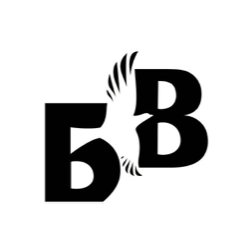
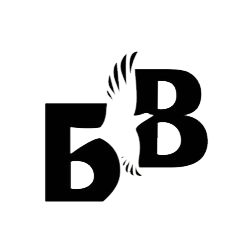
1.1.4 Замена иконки

diff --git a/pages/Video.vue b/pages/Video.vue
@@ -1,76 +1,76 @@
 <template>
-  <v-app style="margin-top: 50px">
+  <div>
     <!--    Меню-->
-    <template>
+  <template>
       <v-tabs
-        background-color="indigo"
-        dark
-        fixed-tabs
+      background-color="indigo"
+      dark
+      fixed-tabs
+    >
+      <v-tab
+        @click="PlaylistIdAll"
       >
-        <v-tab
-          @click="PlaylistIdAll"
-        >
-          Все
-        </v-tab>
-        <v-tab
-          @click="PlaylistIdSermons"
-        >
-          Проповіді
-        </v-tab>
-        <v-tab
-          @click='PlaylistIdSong'
-        >
-          Хвала
-        </v-tab>
-        <v-tab
-          @click='PlaylistIdLife'
-        >
-          Життя церкви
-        </v-tab>
-        <v-tab
-          @click='PlaylistIdChildren'
-        >
-          Діти - вірши
-        </v-tab>
-      </v-tabs>
-    </template>
+        Все
+      </v-tab>
+      <v-tab
+        @click="PlaylistIdSermons"
+      >
+        Проповіді
+      </v-tab>
+      <v-tab
+        @click='PlaylistIdSong'
+      >
+        Хвала
+      </v-tab>
+      <v-tab
+        @click='PlaylistIdLife'
+      >
+        Життя церкви
+      </v-tab>
+      <v-tab
+        @click='PlaylistIdChildren'
+      >
+        Діти - вірши
+      </v-tab>
+    </v-tabs>
+      <v-container fluid>
+        <v-row justify="space-around">
+          <v-col
+            cols="5"
+            sm="4"
+            v-for="(video, i) in allVideos.items"
+            :key="i"
+          >
+            <videoItem
+              :video="video"
+            />
+          </v-col>
+        </v-row>
+      </v-container>
+   </template>
 
-    <template>
-      <v-row class="services">
-        <v-col
-          class="container"
-          v-for="(video, i) in allVideos.items"
-          :key="i"
-        >
-          <videoItem
-            style="text-align: center"
-            :video="video"
-          />
-        </v-col>
-      </v-row>
-    </template>
 
-    <!--    Добавить видео-->
-    <template>
-      <div class="text-center">
-        <v-btn
-          @click="resultPlus"
-          class="ma-2"
-          color="indigo"
-          outlined
-        >
-          Додати ще 5 відео
-        </v-btn>
-      </div>
-    </template>
-  </v-app>
+  <!--    Добавить видео-->
+  <template>
+    <div class="text-center">
+      <v-btn
+        @click="resultPlus"
+        class="ma-2"
+        color="indigo"
+        outlined
+      >
+        Додати ще 5 відео
+      </v-btn>
+    </div>
+  </template>
+  </div>
 </template>
 
 <script>
   const videoItem = () => import('@/components/videoItem')
 
   export default {
-    layout: 'videoLayout',
+    layout: 'default',
     name: "Video",
     components: {
       videoItem
@@ -136,6 +136,13 @@
 </script>
 
 <style>
-  @import '../assets/style.css';
+  .container {
+    width: 90%;
+    max-width: 1500px;
+    margin-left: auto;
+    margin-right: auto;
+  }
 </style>
+
+
 

diff --git a/components/videoItem.vue b/components/videoItem.vue
@@ -1,5 +1,10 @@
 <template>
-  <v-card flex>
+  <v-card
+    max-width="400"
+    class="mx-auto"
+    flex
+    style="margin: 5px"
+  >
     <v-card-title
       style="text-align: center"
     >
@@ -14,6 +19,7 @@
         @ready="ready"
         :player-vars="{ autoplay: 0, controls: 1, modestbranding: 1, showinfo: 0, rel: 0 }"
         :video-id="video.snippet.resourceId.videoId"
+        player-width="100%"
       />
     </v-card-text>
   </v-card>
@@ -41,11 +47,12 @@
         ArrayAllIdVideos() {
           return this.video.snippet
         },
-        color() {
-          const Array = [ 'red', 'green', 'blue', 'pink', 'purple', 'purple lighten-2', 'indigo', 'indigo darken-1', 'light-blue lighten-1' ]
-          return [].slice.call(Array).sort(() => Math.random() - 0.5)
-        }
       }
     }
 </script>
+
+<style>
+
+</style>
+
 

diff --git a/layouts/default.vue b/layouts/default.vue
@@ -78,11 +78,8 @@
       <v-sheet
         id="scrolling-techniques"
         class="overflow-y-auto"
-        max-height="700"
       >
-        <v-container
-          style="width: 100%; height: 1000px"
-        >
+        <v-container>
           <nuxt/>
         </v-container>
       </v-sheet>
@@ -111,9 +108,7 @@
           {name: 'События', value: 'Developments', icon: 'mdi-folder-multiple-image',},
           {name: 'Inspire', value: 'inspire', icon: 'mdi-chart-bubble',},
         ],
-        miniVariant: false,
-        right: true,
-        rightDrawer: false,
+        miniVariant: true,
         title: 'Блага вість',
         subtitle: 'Церква християн віри євангельскої'
       }

diff --git a/pages/index.vue b/pages/index.vue
@@ -1,5 +1,5 @@
 <template>
-  <div style="max-height: 1000px; width: 100%" v-bind:class="[dialog ? blurClass : '', bkClass]">
+  <div style="max-height: 1500px; width: 100%" v-bind:class="[dialog ? blurClass : '', bkClass]">
     <v-parallax
       dark
       src="https://bv.ck.ua/wp-content/uploads/2017/05/3W_PlV0mzxU.jpg"

diff --git a/layouts/empty.vue b/layouts/empty.vue
@@ -1,0 +1,5 @@
+<template>
+  <div>
+    <nuxt/>
+  </div>
+</template>
